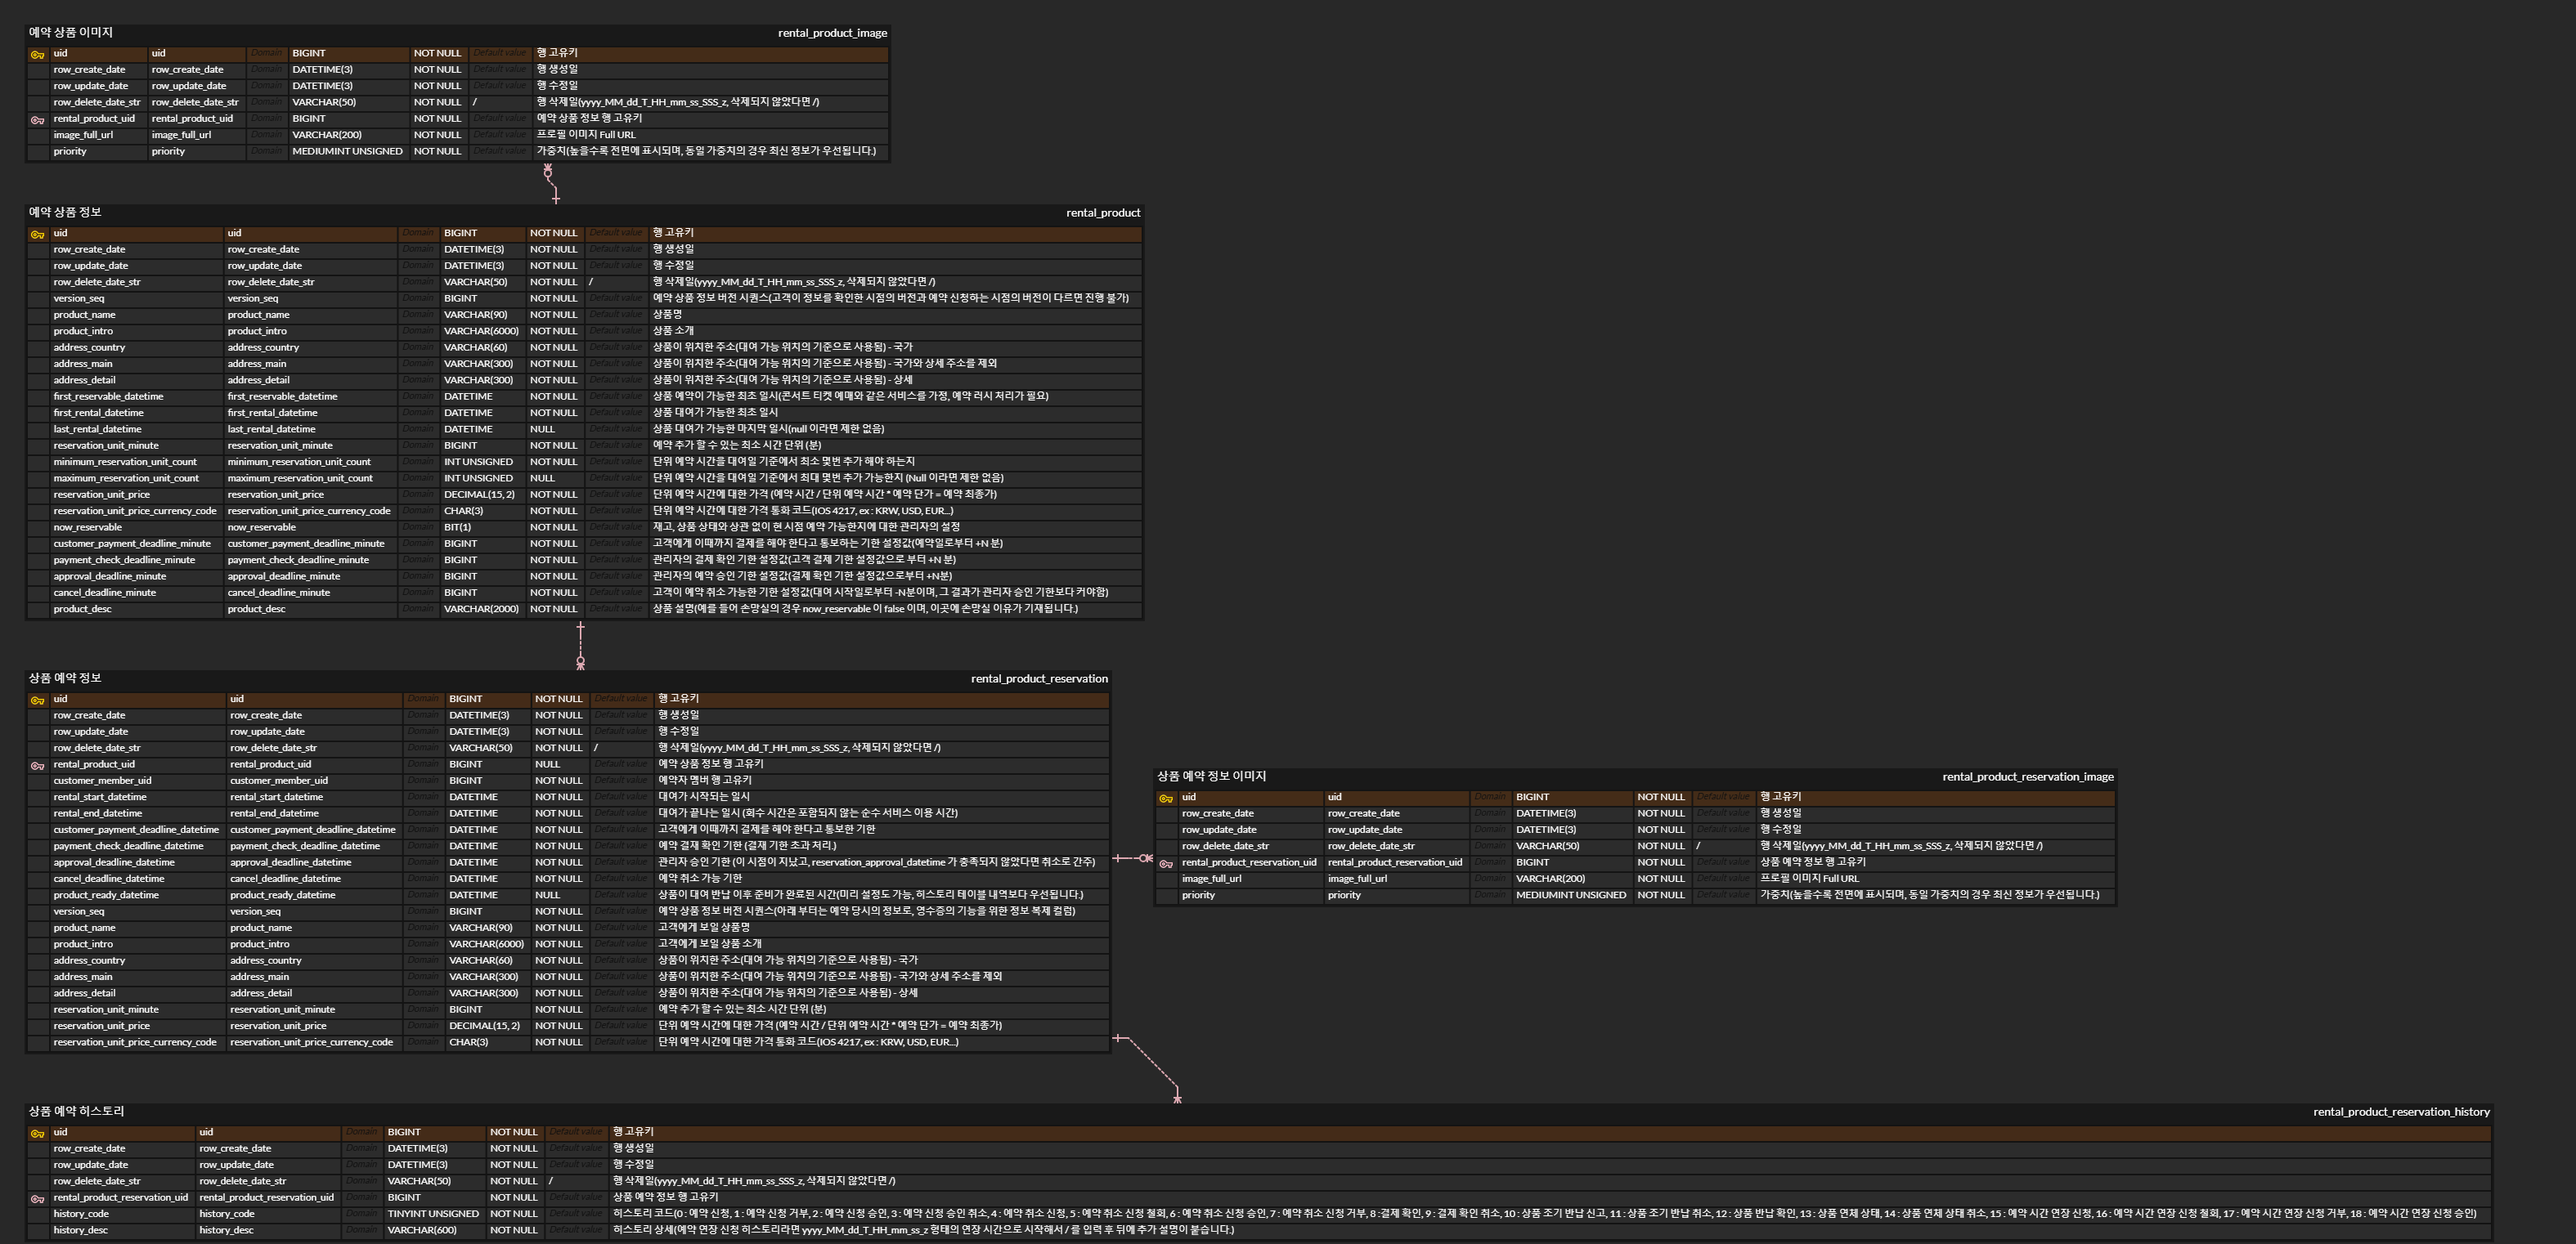
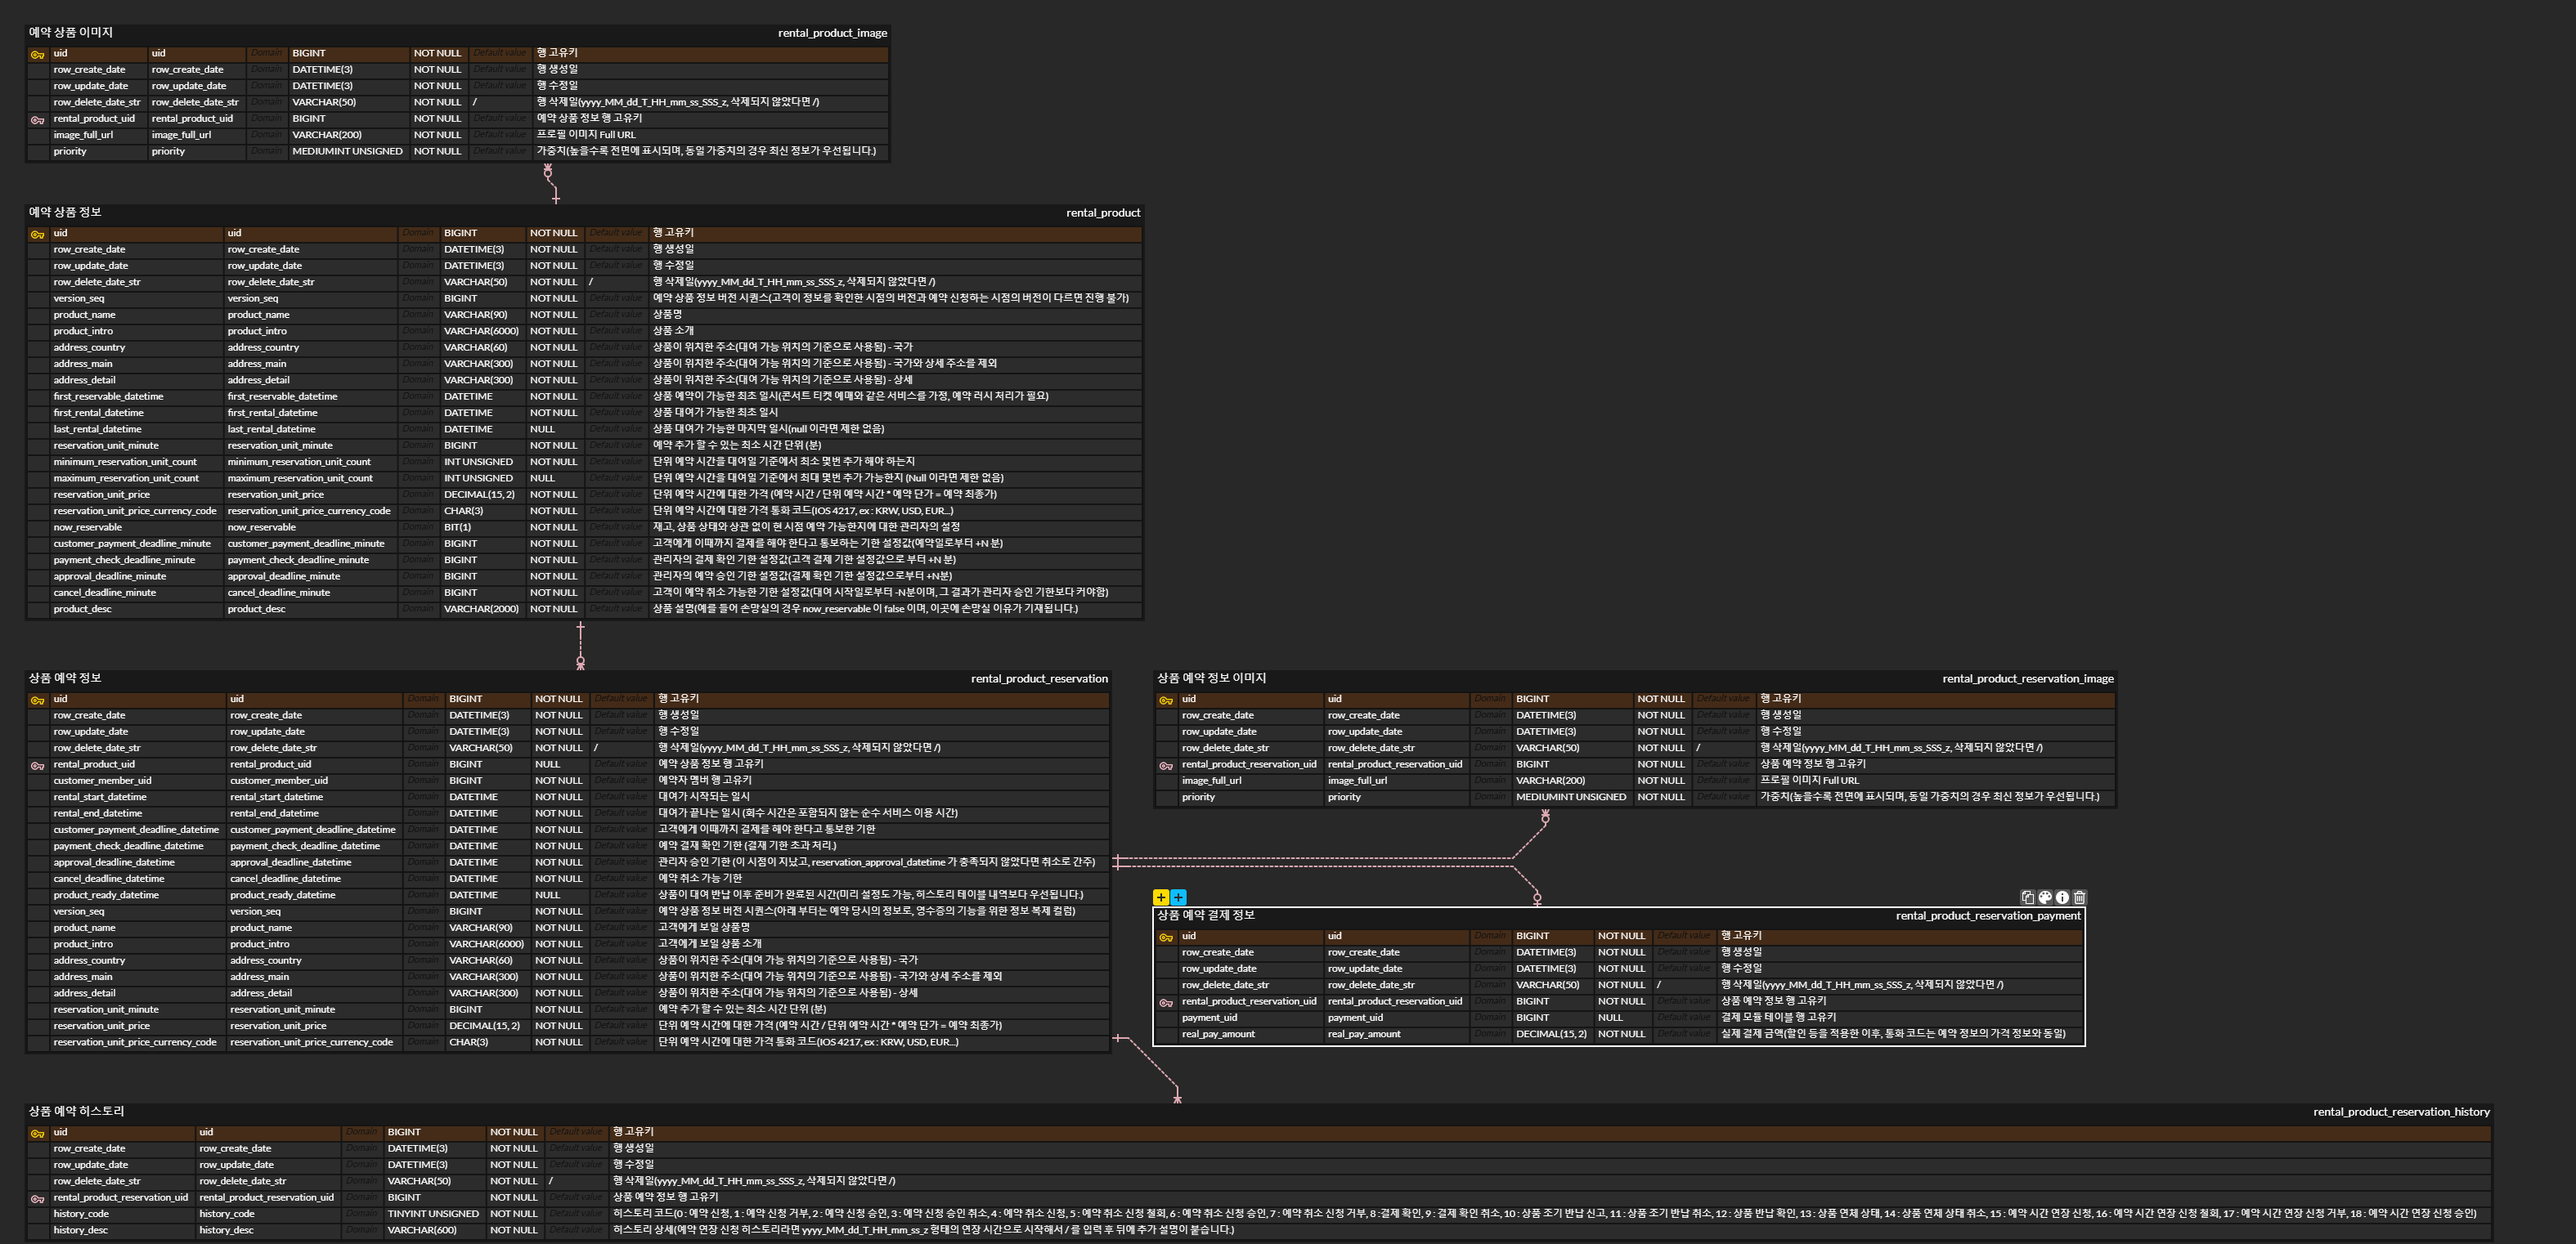
feat : 예약 결제 관련 테이블 추가

Changed region(s): [[0.4356, 0.5558, 0.84, 0.8338]]

diff --git a/module-service-rental-reservation/src/main/kotlin/com/raillylinker/jpa_beans/db1_main/entities/Db1_RaillyLinkerCompany_PaymentRequest.kt b/module-service-rental-reservation/src/main/kotlin/com/raillylinker/jpa_beans/db1_main/entities/Db1_RaillyLinkerCompany_PaymentRequest.kt
@@ -1,0 +1,77 @@
+package com.raillylinker.jpa_beans.db1_main.entities
+
+import jakarta.persistence.*
+import org.hibernate.annotations.ColumnDefault
+import org.hibernate.annotations.Comment
+import org.hibernate.annotations.CreationTimestamp
+import org.hibernate.annotations.UpdateTimestamp
+import java.math.BigDecimal
+import java.time.LocalDateTime
+
+@Entity
+@Table(
+    name = "payment_request",
+    catalog = "railly_linker_company",
+    uniqueConstraints = [
+        UniqueConstraint(columnNames = ["payment_code", "row_delete_date_str"])
+    ]
+)
+@Comment("결제 요청 정보 테이블")
+class Db1_RaillyLinkerCompany_PaymentRequest(
+    @Column(name = "payment_code", nullable = false, columnDefinition = "VARCHAR(100)")
+    @Comment("결제 코드입니다. 외부 모듈에서 결제를 의뢰할 때에 구분을 위해 입력하는 정보로, {유저 고유값(비로그인시 0)}_{모듈 고유값}_{그 외 고유값} 으로 이루어집니다. 환불 요청시의 비밀번호 역할도 겸하므로, 모듈 내 고유값에 유저 고유값과 랜덤값을 섞는 것이 좋습니다.")
+    var paymentCode: String,
+
+    @Column(name = "payment_detail_type", nullable = false, columnDefinition = "TINYINT UNSIGNED")
+    @Comment("결제 타입. 결제 상세 테이블의 종류를 의미합니다. (1 : 수동 계좌이체, 2 : 토스 페이)")
+    var paymentDetailType: Short,
+
+    @Column(name = "payment_amount", nullable = false, columnDefinition = "DECIMAL(15, 2)")
+    @Comment("결제 금액")
+    var paymentAmount: BigDecimal,
+
+    @Column(name = "payment_currency_code", nullable = false, columnDefinition = "CHAR(3)")
+    @Comment("결제 금액 통화 코드(IOS 4217, ex : KRW, USD, EUR...)")
+    var paymentCurrencyCode: String,
+
+    @Column(name = "payment_reason", nullable = false, columnDefinition = "VARCHAR(300)")
+    @Comment("결제 이유")
+    var paymentReason: String,
+
+    @Column(name = "payment_fail_reason", nullable = true, columnDefinition = "VARCHAR(300)")
+    @Comment("결제 실패 이유(결제 실패라면 Not Null)")
+    var paymentFailReason: String?,
+
+    @Column(name = "payment_end_datetime", nullable = true, columnDefinition = "DATETIME(3)")
+    @Comment("결제 프로세스 종결일시(payment_fail_reason 이 null 이라면 완료일, not null 이라면 실패일)")
+    var paymentEndDatetime: LocalDateTime?
+) {
+    @Id
+    @GeneratedValue(strategy = GenerationType.IDENTITY)
+    @Column(name = "uid", columnDefinition = "BIGINT")
+    @Comment("행 고유값")
+    var uid: Long? = null
+
+    @Column(name = "row_create_date", nullable = false, columnDefinition = "DATETIME(3)")
+    @CreationTimestamp
+    @Comment("행 생성일")
+    var rowCreateDate: LocalDateTime? = null
+
+    @Column(name = "row_update_date", nullable = false, columnDefinition = "DATETIME(3)")
+    @UpdateTimestamp
+    @Comment("행 수정일")
+    var rowUpdateDate: LocalDateTime? = null
+
+    @Column(name = "row_delete_date_str", nullable = false, columnDefinition = "VARCHAR(50)")
+    @ColumnDefault("'/'")
+    @Comment("행 삭제일(yyyy_MM_dd_T_HH_mm_ss_SSS_z, 삭제되지 않았다면 /)")
+    var rowDeleteDateStr: String = "/"
+
+    // ---------------------------------------------------------------------------------------------
+    // [@OneToMany 변수들]
+
+
+    // ---------------------------------------------------------------------------------------------
+    // <중첩 클래스 공간>
+
+}

diff --git a/module-service-rental-reservation/src/main/kotlin/com/raillylinker/jpa_beans/db1_main/entities/Db1_RaillyLinkerCompany_RentalProductReservationPayment.kt b/module-service-rental-reservation/src/main/kotlin/com/raillylinker/jpa_beans/db1_main/entities/Db1_RaillyLinkerCompany_RentalProductReservationPayment.kt
@@ -1,0 +1,56 @@
+package com.raillylinker.jpa_beans.db1_main.entities
+
+import jakarta.persistence.*
+import org.hibernate.annotations.ColumnDefault
+import org.hibernate.annotations.Comment
+import org.hibernate.annotations.CreationTimestamp
+import org.hibernate.annotations.UpdateTimestamp
+import java.math.BigDecimal
+import java.time.LocalDateTime
+
+@Entity
+@Table(
+    name = "rental_product_reservation_image",
+    catalog = "railly_linker_company"
+)
+@Comment("상품 예약 결제 정보 테이블(본 테이블이 존재한다는 것으로 해당 결제 정보에 결제 완료가 되었다는 것입니다. 가장 최신의 데이터를 인정합니다.)")
+class Db1_RaillyLinkerCompany_RentalProductReservationPayment(
+    @ManyToOne
+    @JoinColumn(name = "rental_product_reservation_uid", nullable = false)
+    @Comment("상품 예약 정보 행 고유키")
+    var rentalProductReservation: Db1_RaillyLinkerCompany_RentalProductReservation,
+
+    @ManyToOne
+    @JoinColumn(name = "payment_uid", nullable = true)
+    @Comment("결제 모듈 테이블 행 고유키")
+    var paymentRequest: Db1_RaillyLinkerCompany_PaymentRequest?,
+
+    @Column(name = "real_paid_amount", nullable = false, columnDefinition = "DECIMAL(15, 2)")
+    @Comment("실제 결제 금액(할인 등을 적용한 이후, 통화 코드는 예약 정보의 가격 정보와 동일)")
+    var realPaidAmount: BigDecimal
+) {
+    @Id
+    @GeneratedValue(strategy = GenerationType.IDENTITY)
+    @Column(name = "uid", columnDefinition = "BIGINT")
+    @Comment("행 고유값")
+    var uid: Long? = null
+
+    @Column(name = "row_create_date", nullable = false, columnDefinition = "DATETIME(3)")
+    @CreationTimestamp
+    @Comment("행 생성일")
+    var rowCreateDate: LocalDateTime? = null
+
+    @Column(name = "row_update_date", nullable = false, columnDefinition = "DATETIME(3)")
+    @UpdateTimestamp
+    @Comment("행 수정일")
+    var rowUpdateDate: LocalDateTime? = null
+
+    @Column(name = "row_delete_date_str", nullable = false, columnDefinition = "VARCHAR(50)")
+    @ColumnDefault("'/'")
+    @Comment("행 삭제일(yyyy_MM_dd_T_HH_mm_ss_SSS_z, 삭제되지 않았다면 /)")
+    var rowDeleteDateStr: String = "/"
+
+
+    // ---------------------------------------------------------------------------------------------
+    // <중첩 클래스 공간>
+}

diff --git a/module-service-rental-reservation/src/main/kotlin/com/raillylinker/jpa_beans/db1_main/repositories/Db1_RaillyLinkerCompany_PaymentRequest_Repository.kt b/module-service-rental-reservation/src/main/kotlin/com/raillylinker/jpa_beans/db1_main/repositories/Db1_RaillyLinkerCompany_PaymentRequest_Repository.kt
@@ -1,0 +1,16 @@
+package com.raillylinker.jpa_beans.db1_main.repositories
+
+import com.raillylinker.jpa_beans.db1_main.entities.Db1_RaillyLinkerCompany_PaymentRequest
+import org.springframework.data.jpa.repository.JpaRepository
+import org.springframework.stereotype.Repository
+
+// (JPA 레포지토리)
+// : 함수 작성 명명법에 따라 데이터베이스 SQL 동작을 자동지원
+@Repository
+interface Db1_RaillyLinkerCompany_PaymentRequest_Repository :
+    JpaRepository<Db1_RaillyLinkerCompany_PaymentRequest, Long> {
+    fun findByUidAndRowDeleteDateStr(
+        uid: Long,
+        rowDeleteDateStr: String
+    ): Db1_RaillyLinkerCompany_PaymentRequest?
+}

diff --git a/module-service-rental-reservation/src/main/kotlin/com/raillylinker/jpa_beans/db1_main/repositories/Db1_RaillyLinkerCompany_RentalProductPayment_Repository.kt b/module-service-rental-reservation/src/main/kotlin/com/raillylinker/jpa_beans/db1_main/repositories/Db1_RaillyLinkerCompany_RentalProductPayment_Repository.kt
@@ -1,0 +1,14 @@
+package com.raillylinker.jpa_beans.db1_main.repositories
+
+import com.raillylinker.jpa_beans.db1_main.entities.Db1_RaillyLinkerCompany_RentalProductReservationPayment
+import org.springframework.data.jpa.repository.JpaRepository
+import org.springframework.stereotype.Repository
+
+@Repository
+interface Db1_RaillyLinkerCompany_RentalProductPayment_Repository :
+    JpaRepository<Db1_RaillyLinkerCompany_RentalProductReservationPayment, Long> {
+    fun findByUidAndRowDeleteDateStr(
+        uid: Long,
+        rowDeleteDateStr: String
+    ): Db1_RaillyLinkerCompany_RentalProductReservationPayment?
+}
